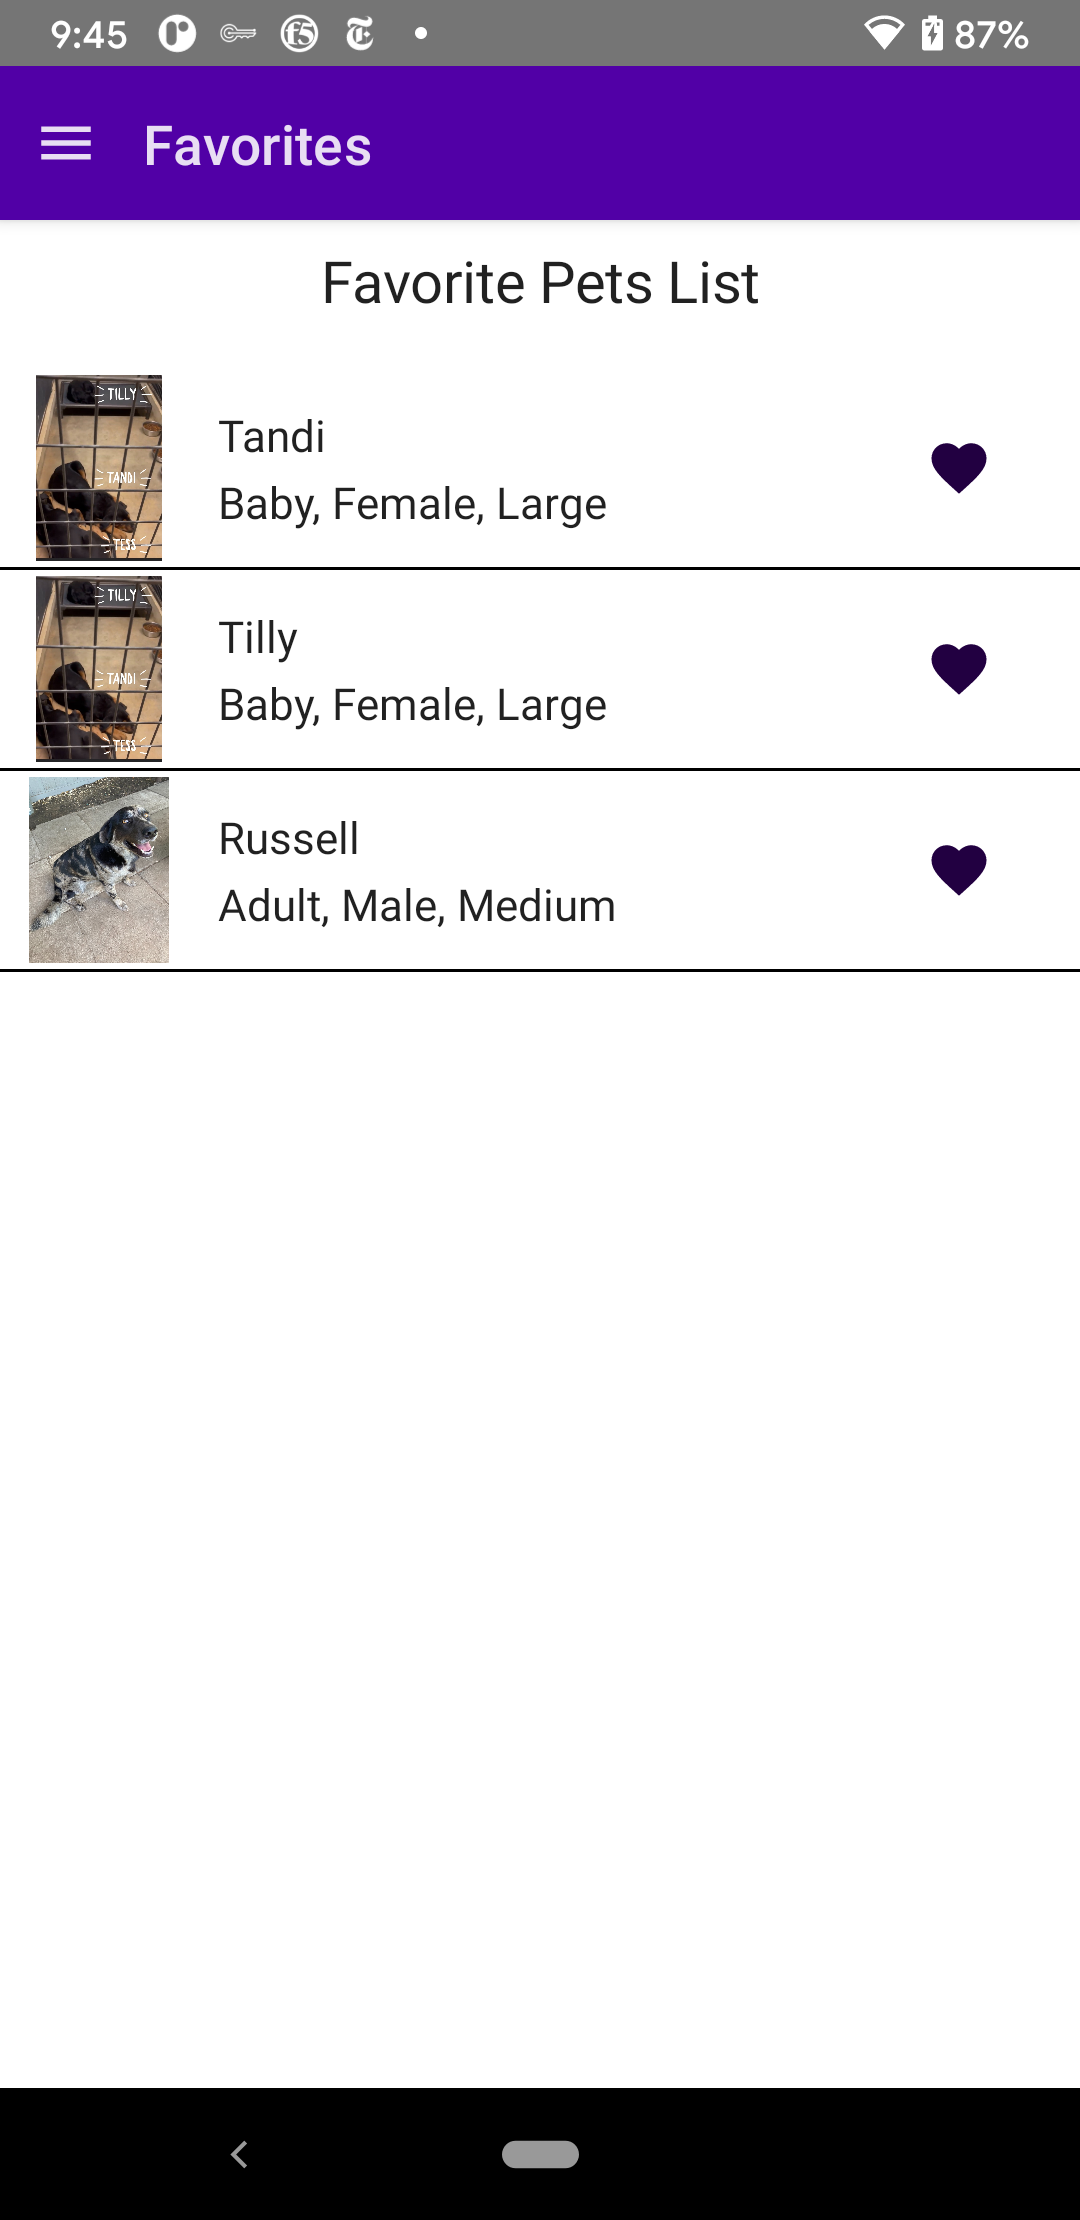
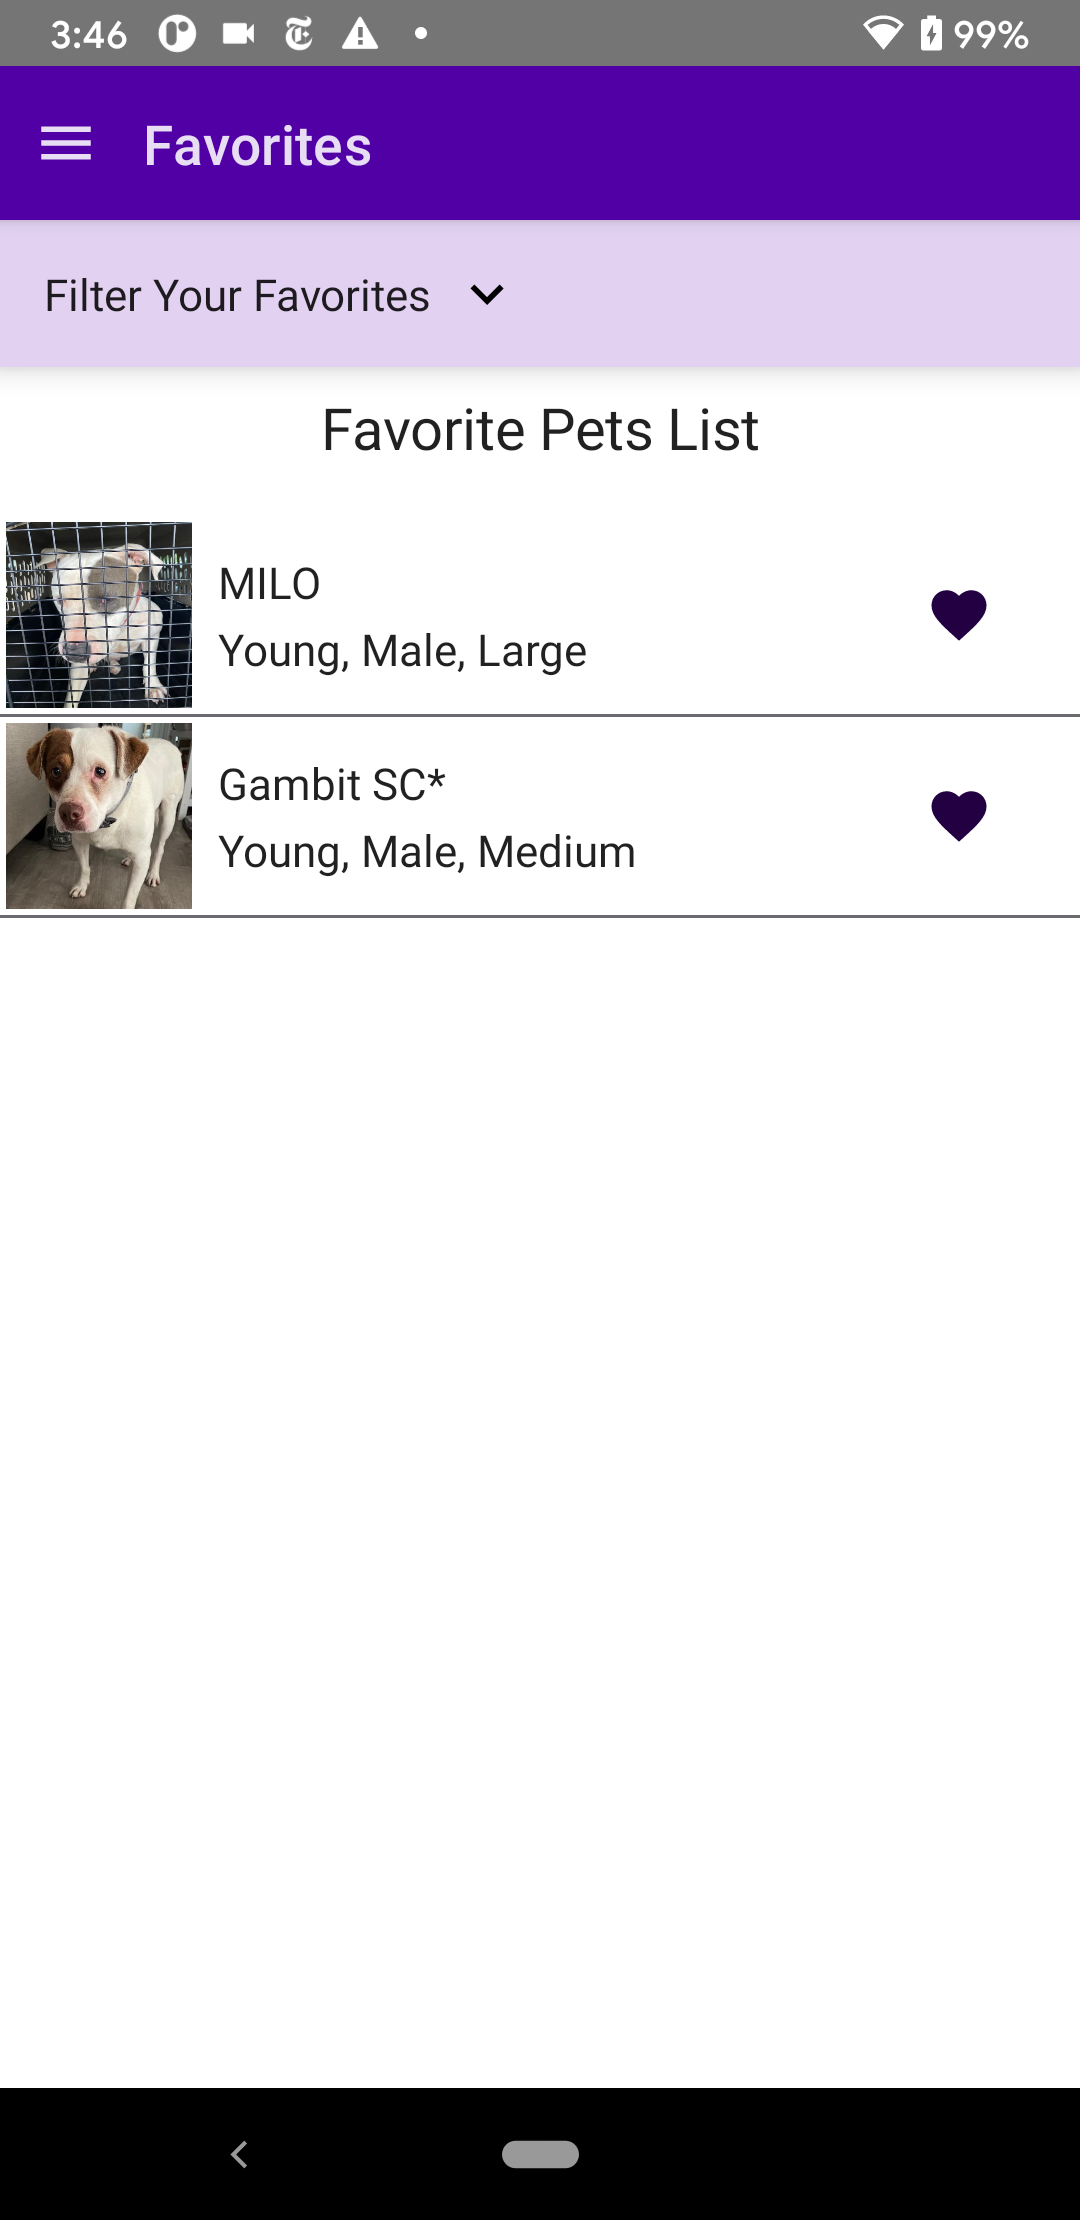
Adding screenshots and README

diff --git a/android/README.md b/android/README.md
@@ -1,7 +1,7 @@
 # Android PetAdoptSampleApp
 Sample App created to practice with different Android Tech
 
-<img src="./Screenshots/drawer.png" width="200"/> <img src="./Screenshots/home.png" width="200"/> <img src="./Screenshots/search_favorite.png" width="200"/> <img src="./Screenshots/favorites.png" width="200"/>
+<img src="./Screenshots/drawer.png" width="200"/> <img src="./Screenshots/home.png" width="200"/> <img src="./Screenshots/search_favorite.png" width="200"/> <img src="./Screenshots/favorites.png" width="200"/> <img src="./Screenshots/all_filters.png" width="200"/> <img src="./Screenshots/organizations.png" width="200"/> <img src="./Screenshots/settings.png" width="200"/>
 
 ## Android Tech
 * Kotlin :heavy_check_mark:
@@ -14,9 +14,6 @@ Sample App created to practice with different Android Tech
 * Hilt :heavy_check_mark:
 
 ## TODO Next
-* Fix placeholder image
-* Fix images on list
-* Fix card look / feel
 * Make keyboard hide on search
 
 ## TODO (Tech)
@@ -24,7 +21,7 @@ Sample App created to practice with different Android Tech
 
 ## TODO (Features)
 * Details Screen
-* More Filters (Animal type, etc)
+* More Search Query Filters (Animal type, etc)
 * Profile
 * Share Animal w/ others
 * Dark Mode

diff --git a/README.md b/README.md
@@ -4,7 +4,7 @@ These apps were built to have similar feature sets but to be use Android/iOS tec
 
 ## Android
 
-<img src="./android/Screenshots/drawer.png" width="200"/> <img src="./android/Screenshots/home.png" width="200"/> <img src="./android/Screenshots/search_favorite.png" width="200"/> <img src="./android/Screenshots/favorites.png" width="200"/>
+<img src="./android/Screenshots/drawer.png" width="200"/> <img src="./android/Screenshots/home.png" width="200"/> <img src="./android/Screenshots/search_favorite.png" width="200"/> <img src="./android/Screenshots/favorites.png" width="200"/> <img src="./android/Screenshots/all_filters.png" width="200"/>
 
 ## iOS
 
